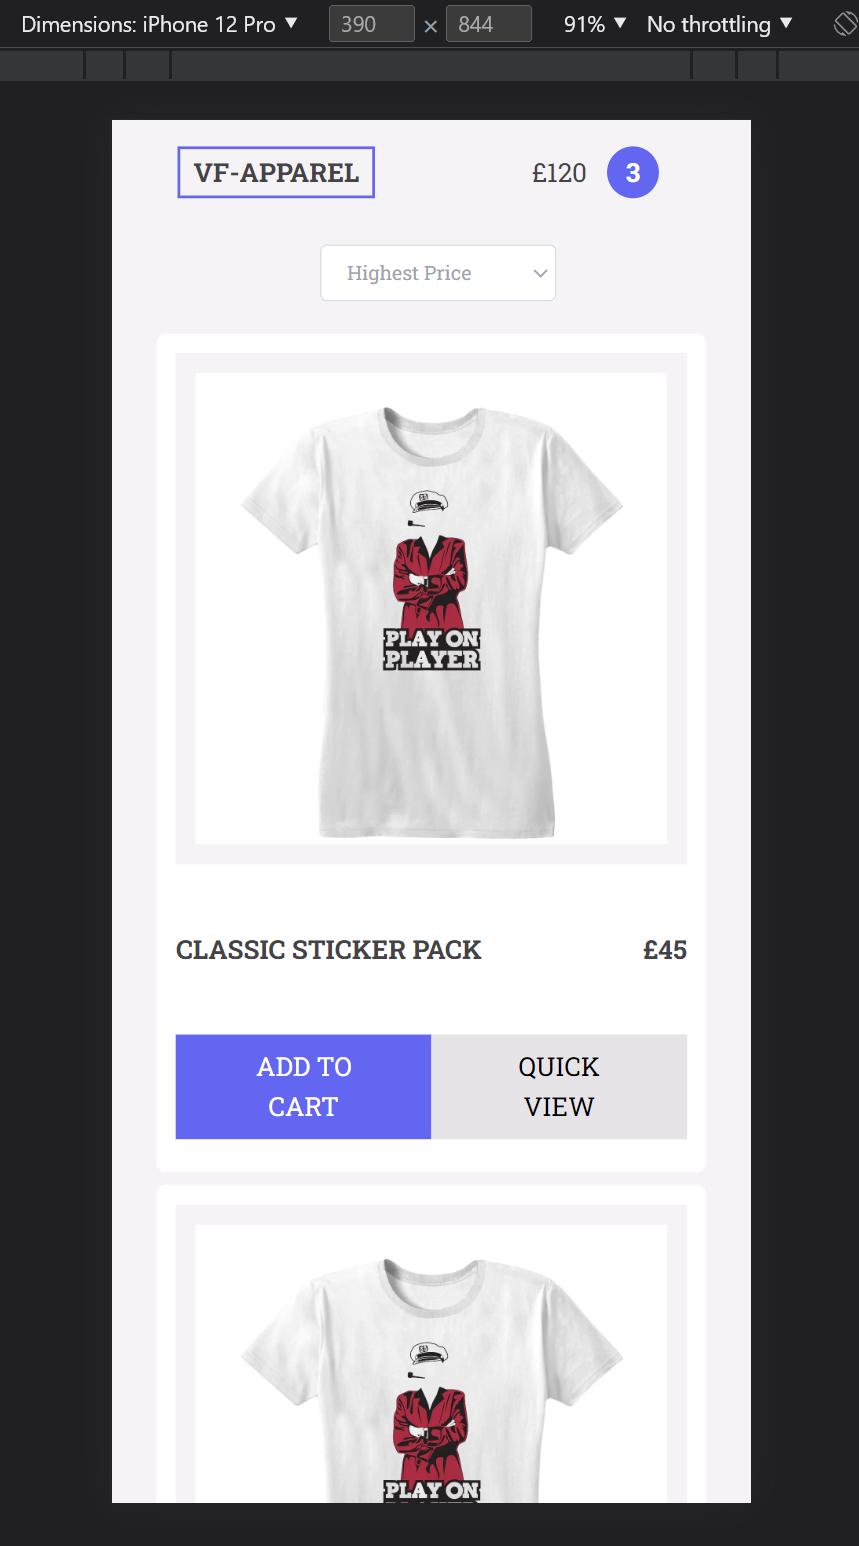
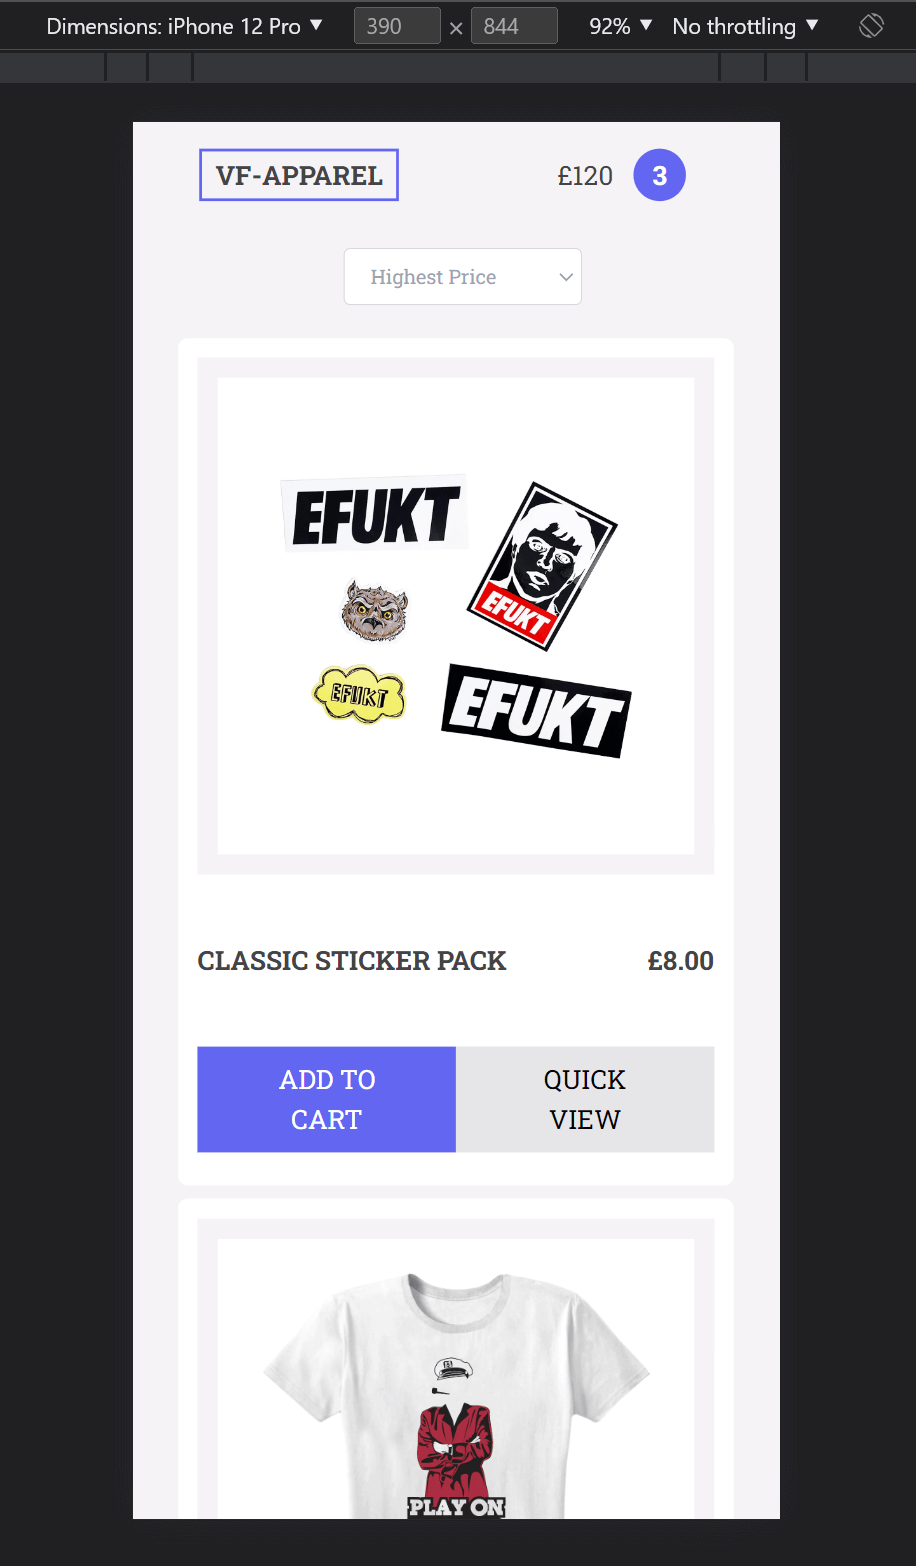
data feching fix

diff --git a/src/components/ProductCard.vue b/src/components/ProductCard.vue
@@ -5,10 +5,7 @@
     :key="product.id"
   >
     <div class="bg-[#F5F3F6] p-3">
-      <img
-        src="https://cdn.shopify.com/s/files/1/0797/7413/products/brand-playon-wtee-white.jpg"
-        class="object-cover w-full h-72"
-      />
+      <img :src="product['images'][0].src" class="object-cover w-full h-72" />
     </div>
     <div class="my-10 text-center flex justify-between font-semibold uppercase">
       <ul>
@@ -16,7 +13,8 @@
           {{ product.title }}
         </li>
       </ul>
-      <strong>£45</strong>
+
+      <strong>£{{ product['variants'][0].price }}</strong>
     </div>
     <div class="flex justify-center">
       <button
@@ -27,7 +25,8 @@
       <button
         class="p-2 mb-2 flex-1 uppercase font-light text-black transition-all cursor-pointer hover:bg-stone-300 hover:scale-110 bg-[#E6E4E7]"
       >
-        quick <br />view
+        quick <br />
+        view
       </button>
     </div>
   </div>
